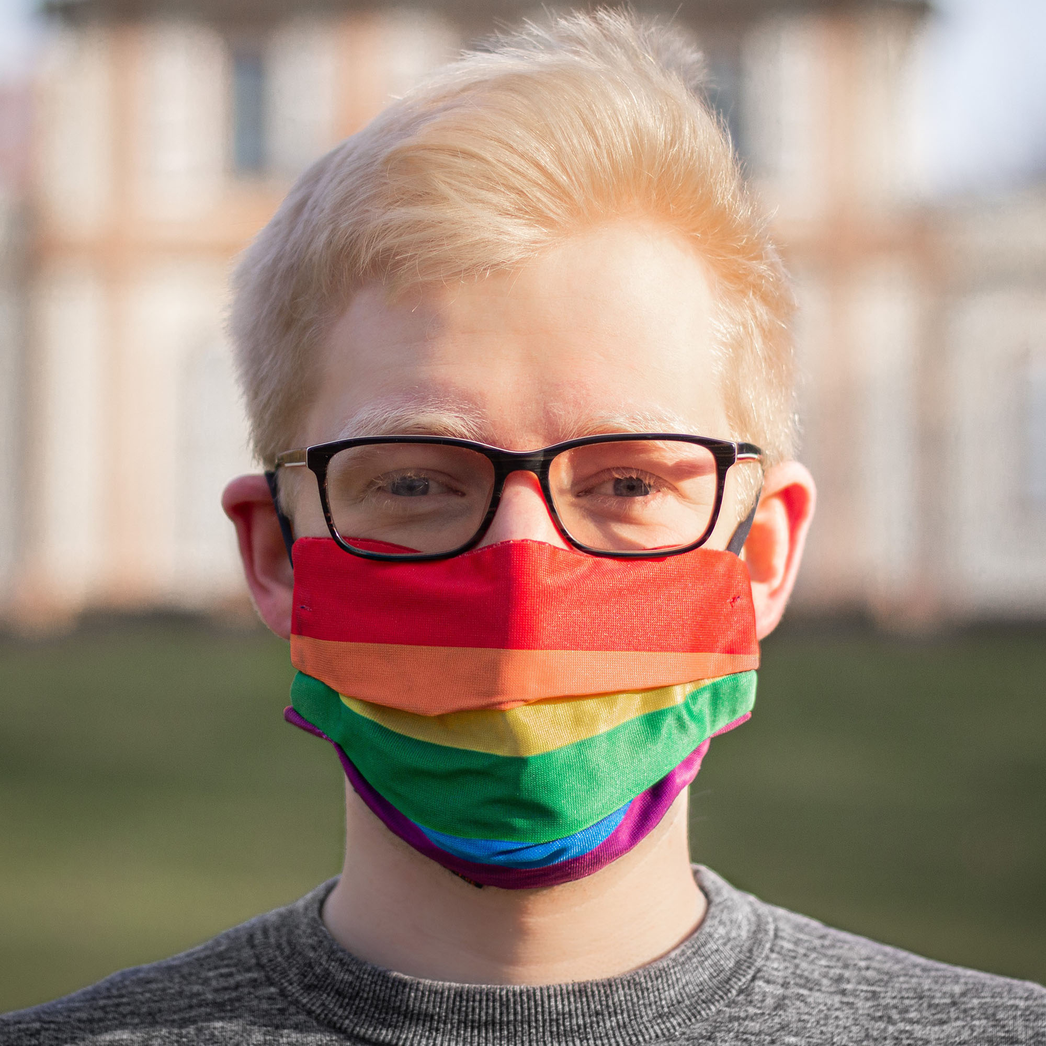
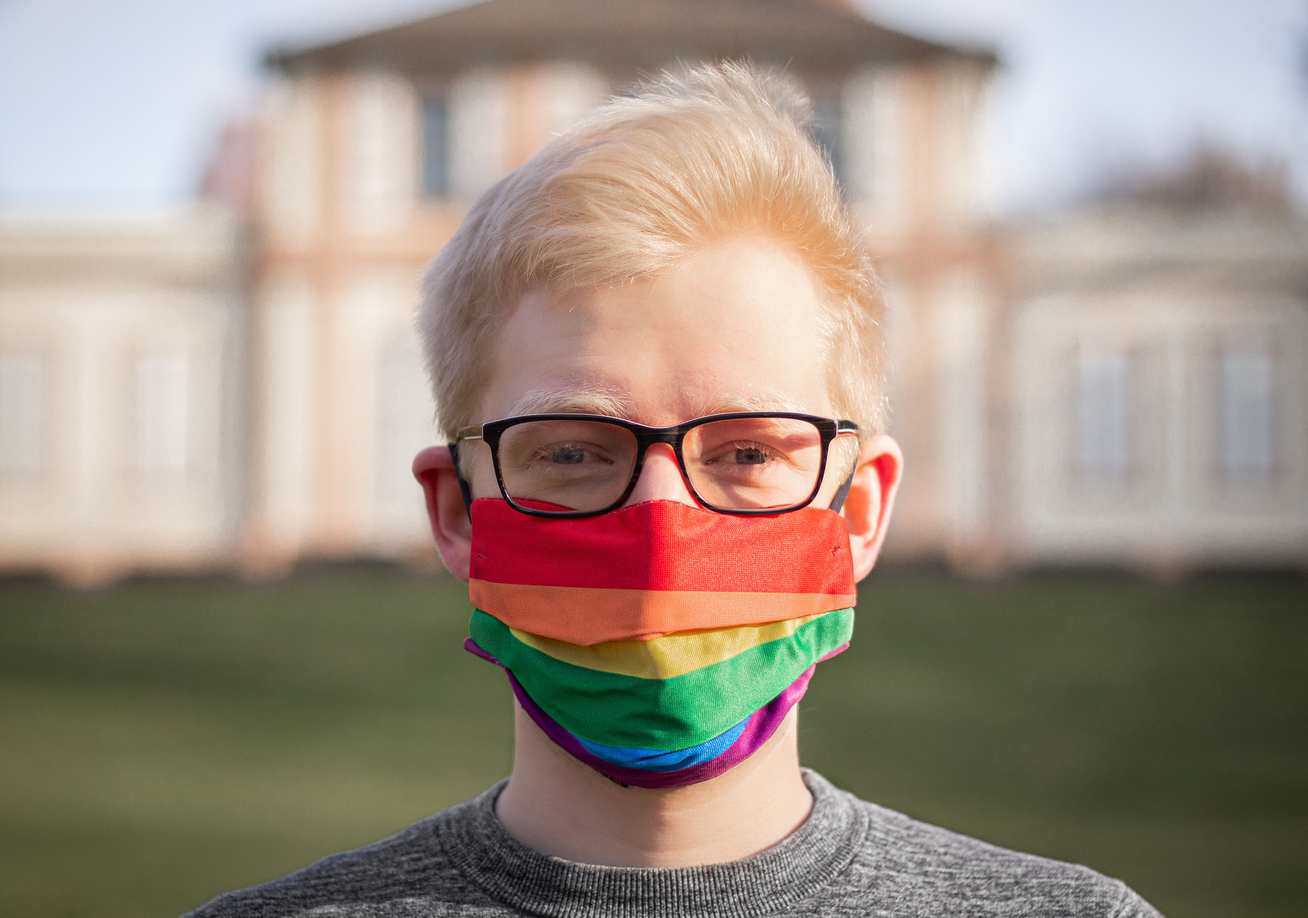
Replace about image with wider version

diff --git a/assets/css/about.css b/assets/css/about.css
@@ -10,9 +10,13 @@ h1 {
 }
 
 .round-image {
-  max-width: 12em;
-  border-radius: 50%;
+  max-width: 100%;
+  width: 12em;
+  height: 12em;
   margin: 0;
+  padding: 0;
+  object-fit: cover;
+  border-radius: 50%;
 }
 
 .profile p {

diff --git a/collections/_pages/about.html b/collections/_pages/about.html
@@ -2,8 +2,6 @@
 layout: default
 title: About &middot; Mark Rothermel
 image: assets/images/mark_mask.jpg
-twitter:
-  card: summary
 ---
 
 <link rel="stylesheet" href="{{ 'assets/css/about.css' | relative_url }}">
